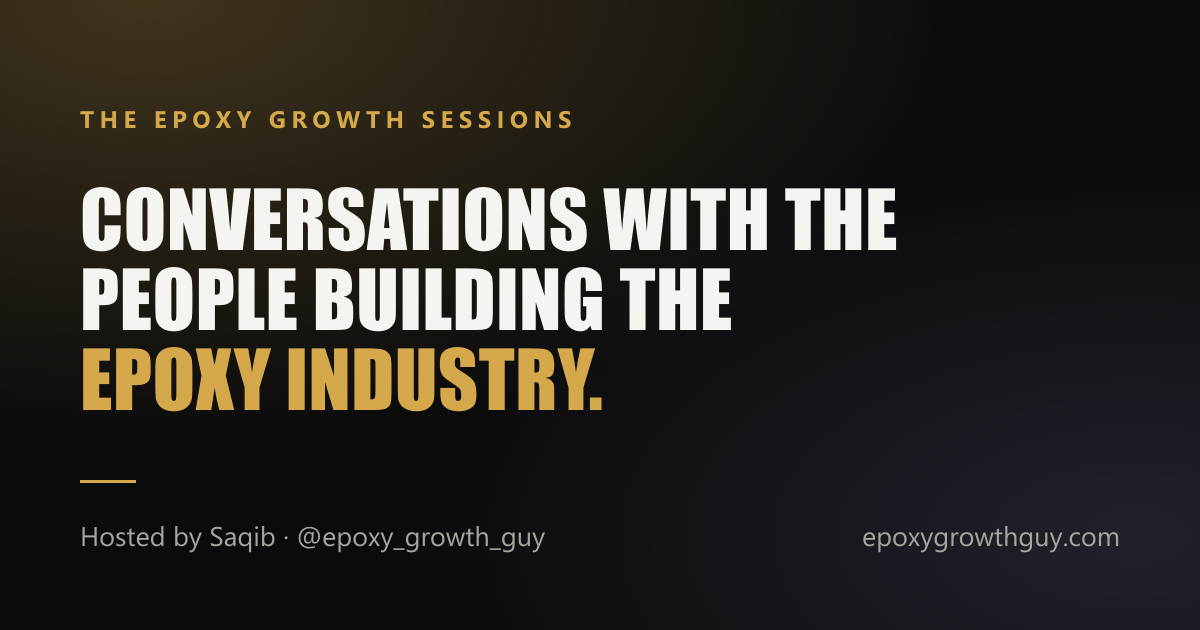
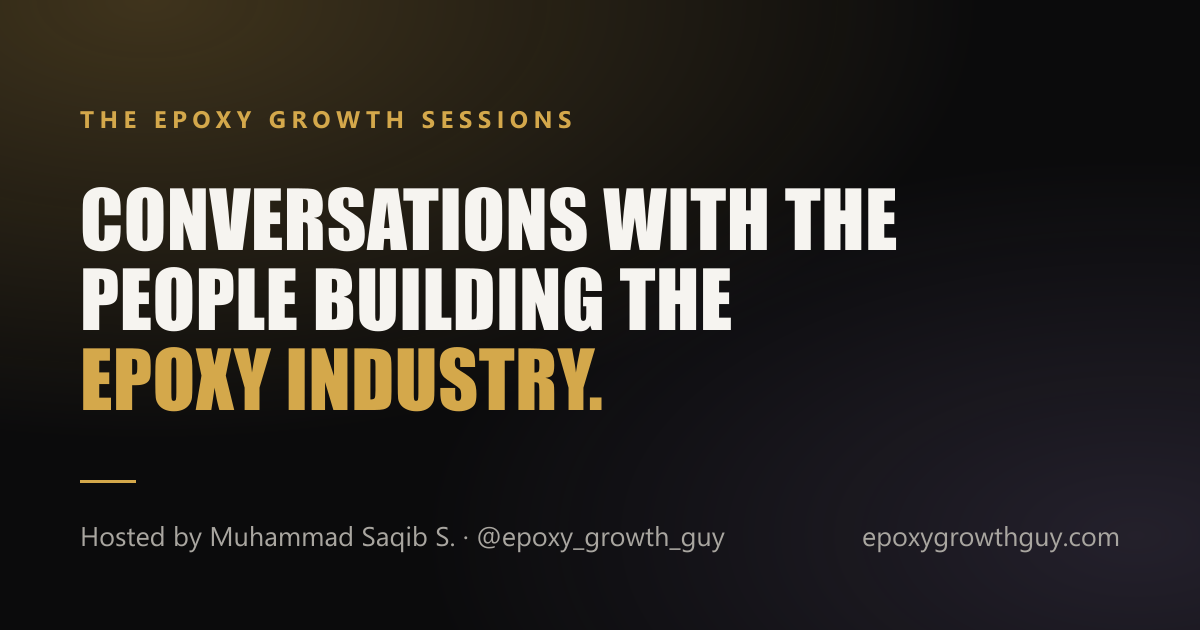
Reword the auto reply, and use the full name everywhere
The auto reply promised two things Saqib does not want to commit to: a
link to pick a time, and the questions sent before recording. Both are
gone. It now says only that he will contact you to arrange a time, which
stays honest whatever he decides to do next and will not go stale if the
process changes. The 15 to 20 minute line stays, since it sets an
expectation the page already makes.

His name is now written in full, Muhammad Saqib S., in every place a
reader meets it: the hero line, the footer copyright, the email
signature, the email sender name, the meta description, the structured
data and the Open Graph image. That last one needed regenerating,
because the name is drawn into the PNG rather than read at runtime.

Verified in the built output: ten mentions across both pages, no bare
first name left.

EPOXYGROWTHGUY_SPEC.md still writes "Hosted by Saqib" and still carries
the old auto reply copy in section 8. Left as written, it is the
original brief.

Changed region(s): [[0.1542, 0.8444, 0.6167, 0.8746]]

diff --git a/src/config.ts b/src/config.ts
@@ -11,9 +11,12 @@ export const site = {
   /** Wordmark used in the top bar and footer. */
   wordmark: 'Epoxy Growth Guy',
 
-  /** Host details. */
-  hostName: 'Saqib',
-  hostLegalName: 'Muhammad Saqib',
+  /**
+   * Host details. Always the full name, everywhere it appears: the hero line,
+   * the footer, the email signature and the email sender.
+   */
+  hostName: 'Muhammad Saqib S.',
+  hostLegalName: 'Muhammad Saqib S.',
 
   /** [CONFIG] contactEmail. Shown in the footer and on the privacy page. */
   contactEmail: 'muhammad.saqib@autosinq.com',
@@ -31,7 +34,7 @@ export const site = {
    */
   mail: {
     from: 'muhammad.saqib@autosinq.com',
-    fromName: 'Muhammad Saqib',
+    fromName: 'Muhammad Saqib S.',
   },
 
   /** Instagram handle, without the @. */
@@ -68,7 +71,7 @@ export const site = {
     title:
       'The Epoxy Growth Sessions | Interviews with the people building the epoxy industry',
     description:
-      'Short, honest interviews with epoxy installers, artists, suppliers and educators. Hosted by Saqib, @epoxy_growth_guy. Request an interview.',
+      'Short, honest interviews with epoxy installers, artists, suppliers and educators. Hosted by Muhammad Saqib S., @epoxy_growth_guy. Request an interview.',
     ogImage: '/og.png',
   },
 } as const;

diff --git a/src/lib/notify.ts b/src/lib/notify.ts
@@ -206,7 +206,7 @@ async function autoReply(
 
 Thanks for reaching out about the Epoxy Growth Sessions. I've got your details and I'll look through them in the next 48 hours.
 
-If it's a fit, I'll send you a link to pick a time. The call is relaxed, about 15 to 20 minutes, and I'll send you the questions before we record.
+If it's a fit, I'll contact you to arrange a time. The call is relaxed and takes about 15 to 20 minutes.
 
 Talk soon,
 ${site.hostName}
@@ -215,7 +215,7 @@ ${site.hostName}
   const html = `<div style="font:15px/1.6 -apple-system,Segoe UI,Roboto,sans-serif;max-width:34rem">
 <p>Hi ${esc(name)},</p>
 <p>Thanks for reaching out about the Epoxy Growth Sessions. I've got your details and I'll look through them in the next 48 hours.</p>
-<p>If it's a fit, I'll send you a link to pick a time. The call is relaxed, about 15 to 20 minutes, and I'll send you the questions before we record.</p>
+<p>If it's a fit, I'll contact you to arrange a time. The call is relaxed and takes about 15 to 20 minutes.</p>
 <p>Talk soon,<br />${esc(site.hostName)}<br /><a href="https://www.instagram.com/${esc(site.instagramHandle)}/" style="color:#9a7520">@${esc(site.instagramHandle)}</a></p>
 </div>`;
 

diff --git a/docs/emails.md b/docs/emails.md
@@ -43,12 +43,16 @@ email. The Supabase row id is at the bottom.
 > Thanks for reaching out about the Epoxy Growth Sessions. I've got your
 > details and I'll look through them in the next 48 hours.
 >
-> If it's a fit, I'll send you a link to pick a time. The call is relaxed,
-> about 15 to 20 minutes, and I'll send you the questions before we record.
+> If it's a fit, I'll contact you to arrange a time. The call is relaxed and
+> takes about 15 to 20 minutes.
 >
 > Talk soon,
-> Saqib
+> Muhammad Saqib S.
 > @epoxy_growth_guy
+
+It deliberately promises nothing about *how* contact happens. No booking link,
+no questions in advance. That keeps the reply honest whatever you decide to do
+next, and leaves you free to change the process without the email going stale.
 
 The first name is the first word of what they typed. If they only gave one
 word, that word is used. If the name is somehow blank, it falls back to
